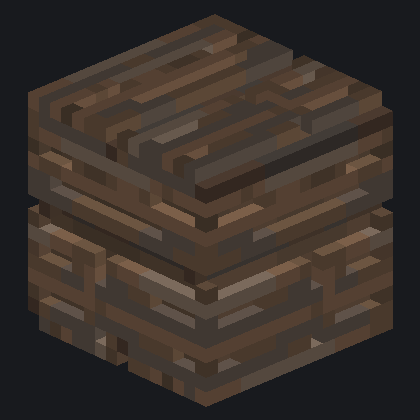
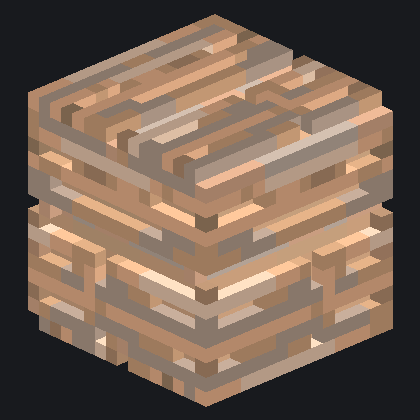
util/claude_models: bake physical albedo, not painted pixels
A game texture is authored to be DISPLAYED, not to be used as
reflectance, and we were feeding it straight in as albedo. Two errors
compounded, both measured on the real default_wood.png:

1. NO DELIGHTING. The same luminance field decides the carve depth AND
   is stored as the colour. So a plank groove is dark because the
   artist painted a shadow there, and is THEN carved into a real recess
   that the tracer shadows for real. 35% of the oak texels carve; their
   albedo is already 2.35x darker in linear light before any geometry
   exists, and the recess multiplies that again — 3.4x to 7.9x too
   dark. That is the "plank walls read blotchy" known gap, and John
   spotted the double-darkening from the screen.

2. TOO DARK OVERALL. pathAlbedo linearizes with pow(2.2), so oak lands
   at 0.136 linear against ~0.35 for real wood. Interiors are
   bounce-dominated, so the error compounds once per bounce: a
   3-bounce corner keeps ~6% of the light it should have. The dark
   corner was dark by construction, and the tuned brightness constants
   (the x10 point-light, the 5.5x eye-hit emission) are plausibly
   compensation for it.

Fix at bake time (template is generator, never runtime — the
circle-postmortem law): where a texel becomes a recess, lift it back to
the unshadowed material tone and let geometry make the shadow; then
renormalize each face to a physical mean albedo. Carve DEPTH still
comes from the original luminance — only the stored colour changes.
[…]

diff --git a/util/claude_models.py b/util/claude_models.py
@@ -164,11 +164,64 @@ def _face_map(face, u, v, d):
     raise ValueError(face)
 
 
+LUMW = np.array([0.2126, 0.7152, 0.0722])
+
+# Physical mean albedo per material family, LINEAR (what pathAlbedo
+# produces). Game textures are painted to be DISPLAYED, not to be used
+# as reflectance: raw oak planks linearize to 0.136, about 3x darker
+# than real wood, and interiors are bounce-dominated so that error
+# compounds once per bounce (a 3-bounce corner keeps ~6% of its light).
+ALBEDO_TARGET = {
+    "wood": 0.35, "log": 0.30, "stone": 0.25, "cobble": 0.22,
+    "wool": 0.60, "book": 0.30, "default": 0.32,
+}
+
+
+def _delight(img, carved, delight=1.0, target=None):
+    """Turn a painted texture into a physical albedo map.
+
+    Two corrections, both bake-time (template is generator, never
+    runtime — the circle-postmortem law):
+
+    1. DELIGHT. A groove is dark in the texture because the artist
+       PAINTED a shadow there. We then carve that same texel into a
+       real recess, which the tracer shadows for real -- so the
+       darkness lands twice. Where we carve, lift the texel back to
+       the unshadowed material tone and let geometry produce the
+       shadow. (The carve DEPTH still comes from the original
+       luminance; only the stored colour changes.)
+    2. RENORMALIZE. Scale the face so its mean linear albedo is a
+       physical value for the material.
+
+    Emissive texels are excluded by the caller: their brightness is
+    real, not painted shading.
+    """
+    out = img.astype(np.float32).copy()
+    if delight > 0.0 and carved.any() and (~carved).any():
+        base = out[~carved].mean(axis=0)          # unshadowed tone
+        baselum = max(float(base @ LUMW), 1.0)
+        cur = out[carved]
+        curlum = np.maximum(cur @ LUMW, 1.0)
+        lifted = np.clip(cur * (baselum / curlum)[:, None], 0.0, 255.0)
+        out[carved] = cur * (1.0 - delight) + lifted * delight
+    if target:
+        lin = (out / 255.0) ** 2.2
+        m = float(lin.mean())
+        if m > 1e-6:
+            lin = np.clip(lin * (target / m), 0.0, 1.0)
+            out = (lin ** (1.0 / 2.2)) * 255.0
+    return out
+
+
 def bake_from_tiles(name, tiles, maxdepth=3, emissive_faces=(),
-                    emit_level=13):
+                    emit_level=13, delight=1.0, albedo=None):
     """tiles: {face: png path}. Returns (name, palette, voxels) in the
     same shape the authored models use. Palette grows per unique
-    (rgb, emit) — texel-true colors, no quantization."""
+    (rgb, emit) — texel-true colors, no quantization.
+
+    delight/albedo drive _delight(): see there for why a raw game
+    texture is not an albedo map. delight=0, albedo=None reproduces
+    the original texel-verbatim bake."""
     imgs = {}
     for face, path in tiles.items():
         imgs[face] = np.asarray(
@@ -236,11 +289,25 @@ def bake_from_tiles(name, tiles, maxdepth=3, emissive_faces=(),
                 if len(comp) >= 3:
                     for cv, cu in comp:
                         keep[cv, cu] = True
+        # Which texels become recessed geometry — computed from the
+        # ORIGINAL luminance (the artist's shading is a good depth
+        # signal), then handed to _delight so their painted-in shadow
+        # can be removed before the colour is stored.
+        interior = np.zeros((N, N), dtype=bool)
+        interior[1:N - 1, 1:N - 1] = True
+        fire = np.zeros((N, N), dtype=bool)
+        if face in emissive_faces:
+            fire = ((img[:, :, 0] > 140.0)
+                    & (img[:, :, 0] > 1.5 * img[:, :, 2])
+                    & (img[:, :, 1] > 40.0))
+        carved = (deep | (keep & interior)) & ~fire
+        alb = _delight(img, carved, delight=delight, target=albedo)
+        alb[fire] = img[fire]   # emissive brightness is real, not paint
+
         for vv in range(N):
             for u in range(N):
-                r, g, b = img[vv, u]
-                is_fire = (face in emissive_faces and r > 140.0
-                           and r > 1.5 * b and g > 40.0)
+                r, g, b = alb[vv, u]
+                is_fire = bool(fire[vv, u])
                 if is_fire:
                     d = maxdepth  # fire sits at the back of its recess
                 elif deep[vv, u]:
@@ -268,7 +335,8 @@ def model_furnace_baked():
              side=os.path.join(tdir, "default_furnace_side.png"),
              top=os.path.join(tdir, "default_furnace_top.png"),
              bottom=os.path.join(tdir, "default_furnace_bottom.png")),
-        maxdepth=3, emissive_faces=("front",), emit_level=13)
+        maxdepth=3, emissive_faces=("front",), emit_level=13,
+        albedo=ALBEDO_TARGET["stone"])
 
 
 def model_crafting_baked():
@@ -280,7 +348,7 @@ def model_crafting_baked():
         dict(front=os.path.join(tdir, "crafting_workbench_front.png"),
              side=os.path.join(tdir, "crafting_workbench_side.png"),
              top=os.path.join(tdir, "crafting_workbench_top.png")),
-        maxdepth=2)
+        maxdepth=2, albedo=ALBEDO_TARGET["wood"])
 
 
 def model_bookshelf_baked():
@@ -426,13 +494,15 @@ def _mcl(*parts):
 def model_planks_oak():
     t = _mcl("ITEMS", "mcl_core", "textures", "default_wood.png")
     return bake_from_tiles("planks_oak_baked",
-                           dict(side=t, top=t, bottom=t), maxdepth=1)
+                           dict(side=t, top=t, bottom=t), maxdepth=1,
+                           albedo=ALBEDO_TARGET["wood"])
 
 
 def model_planks_spruce():
     t = _mcl("ITEMS", "mcl_core", "textures", "mcl_core_planks_spruce.png")
     return bake_from_tiles("planks_spruce_baked",
-                           dict(side=t, top=t, bottom=t), maxdepth=1)
+                           dict(side=t, top=t, bottom=t), maxdepth=1,
+                           albedo=ALBEDO_TARGET["wood"])
 
 
 def model_log_oak():
@@ -444,13 +514,14 @@ def model_log_oak():
                       "default_tree_top.png"),
              bottom=_mcl("ITEMS", "mcl_core", "textures",
                          "default_tree_top.png")),
-        maxdepth=1)
+        maxdepth=1, albedo=ALBEDO_TARGET["log"])
 
 
 def model_cobble():
     t = _mcl("ITEMS", "mcl_core", "textures", "default_cobble.png")
     return bake_from_tiles("cobble_baked",
-                           dict(side=t, top=t, bottom=t), maxdepth=1)
+                           dict(side=t, top=t, bottom=t), maxdepth=1,
+                           albedo=ALBEDO_TARGET["cobble"])
 
 
 def extrude_cutout(name, path, thick=2, emit_level=12):
